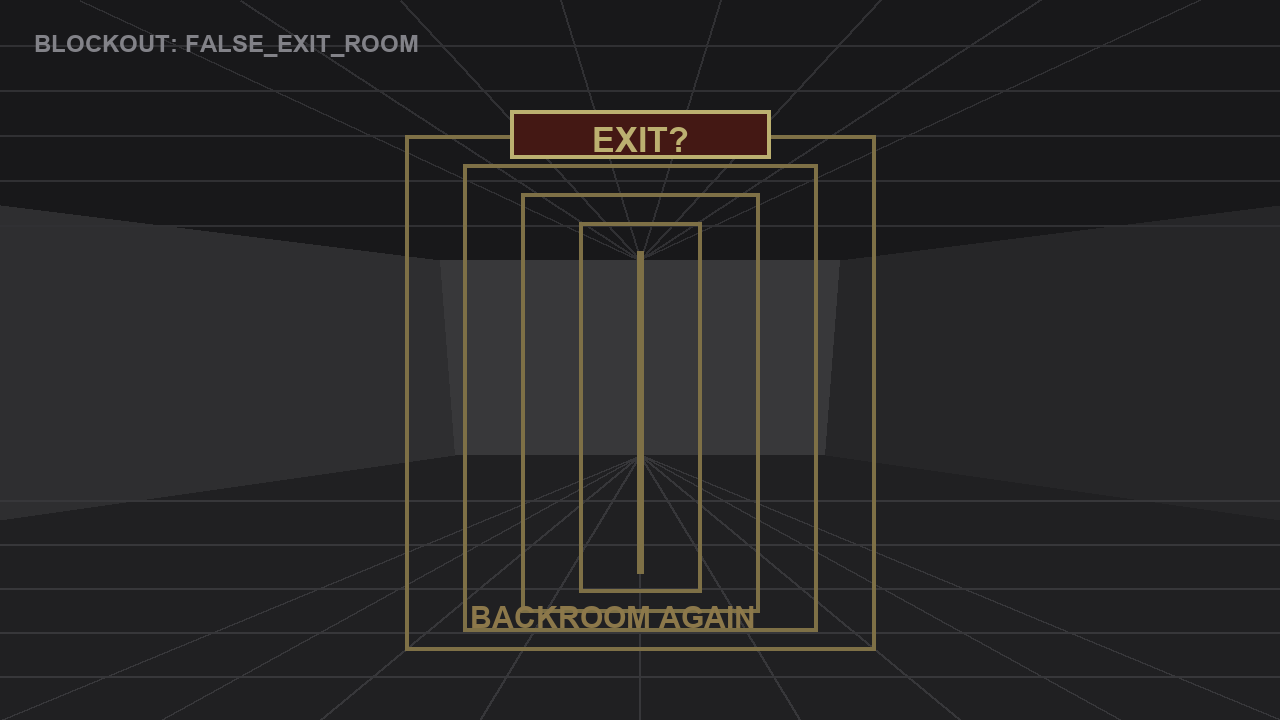
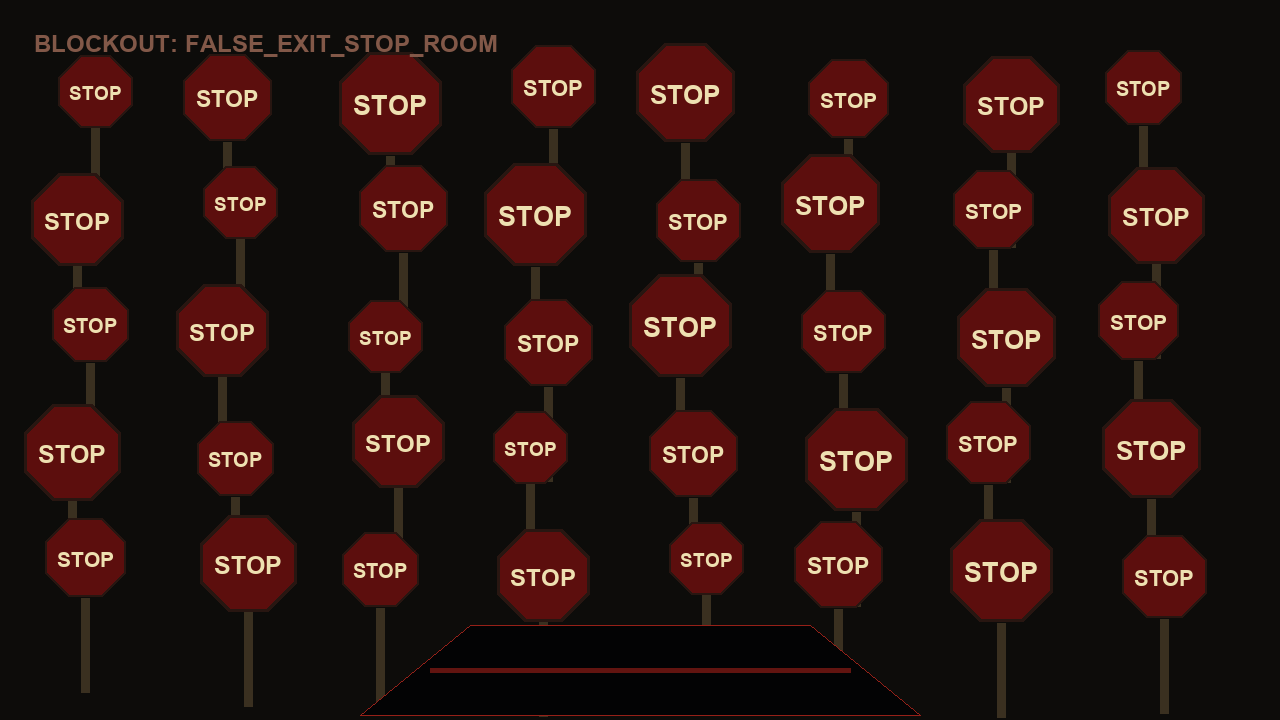
Implement v2.1 stop room flow

diff --git a/tools/generate_assets.py b/tools/generate_assets.py
@@ -89,9 +89,31 @@ def arrow_path(draw: ImageDraw.ImageDraw, side: str, label: str) -> None:
 
 
 def red_trace(draw: ImageDraw.ImageDraw) -> None:
-    trail = [(90, 662), (175, 640), (260, 646), (345, 618), (430, 624)]
-    draw.line(trail, fill=RED, width=9)
-    draw.line([(110, 690), (240, 676), (330, 684)], fill=RED, width=6)
+    trail = [(70, 668), (150, 640), (245, 648), (335, 612), (448, 622)]
+    draw.line(trail, fill=(62, 4, 4), width=28, joint="curve")
+    draw.line(trail, fill=(154, 18, 14), width=17, joint="curve")
+    draw.line([(92, 695), (210, 675), (320, 685), (405, 660)], fill=(126, 12, 10), width=11, joint="curve")
+    for x, y, rx, ry in [
+        (105, 650, 30, 12),
+        (188, 632, 22, 8),
+        (274, 648, 38, 13),
+        (366, 616, 28, 10),
+        (426, 634, 18, 7),
+        (238, 690, 20, 8),
+    ]:
+        draw.ellipse((x - rx, y - ry, x + rx, y + ry), fill=(112, 9, 8))
+
+
+def stop_sign_shape(draw: ImageDraw.ImageDraw, cx: int, cy: int, radius: int, alpha_fill: tuple[int, int, int] = (113, 19, 17)) -> None:
+    points = []
+    for i in range(8):
+        angle = math.pi / 8 + i * math.pi / 4
+        points.append((cx + int(math.cos(angle) * radius), cy + int(math.sin(angle) * radius)))
+    draw.polygon(points, fill=alpha_fill, outline=(214, 188, 120))
+    draw.line(points + [points[0]], fill=(40, 22, 17), width=max(2, radius // 16))
+    label_font = font(max(14, radius // 2))
+    bbox = draw.textbbox((0, 0), "STOP", font=label_font)
+    draw.text((cx - (bbox[2] - bbox[0]) / 2, cy - (bbox[3] - bbox[1]) / 2 - radius * 0.05), "STOP", fill=(238, 224, 177), font=label_font)
 
 
 def scene_fork_stop() -> Image.Image:
@@ -153,9 +175,28 @@ def scene_stop_back_red() -> Image.Image:
 def scene_left_blood_path() -> Image.Image:
     img, draw = blockout_room("BLOCKOUT: LEFT_BLOOD_PATH")
     doorway(draw, (710, 230, 1080, 615), "SWITCH")
-    draw.line([(430, 690), (500, 620), (575, 560), (650, 500), (705, 395)], fill=RED, width=13)
-    for x, y in [(470, 650), (535, 600), (610, 550), (690, 480), (720, 420)]:
-        draw.ellipse((x - 12, y - 7, x + 12, y + 7), fill=RED)
+    overlay = Image.new("RGBA", (W, H), (0, 0, 0, 0))
+    blood = ImageDraw.Draw(overlay)
+    main_trail = [(360, 700), (430, 650), (500, 602), (574, 548), (646, 490), (704, 390)]
+    blood.line(main_trail, fill=(64, 0, 0, 180), width=46, joint="curve")
+    blood.line(main_trail, fill=(152, 11, 8, 225), width=27, joint="curve")
+    blood.line([(400, 690), (455, 666), (505, 671), (572, 632)], fill=(182, 28, 20, 190), width=18, joint="curve")
+    blood.line([(548, 590), (616, 585), (690, 552), (754, 510)], fill=(118, 6, 6, 170), width=16, joint="curve")
+    for x, y, rx, ry, color in [
+        (405, 678, 52, 20, (86, 0, 0, 200)),
+        (492, 617, 42, 16, (136, 8, 7, 215)),
+        (578, 552, 48, 18, (166, 16, 10, 225)),
+        (654, 484, 36, 13, (112, 4, 4, 200)),
+        (712, 410, 26, 11, (158, 20, 14, 215)),
+        (475, 700, 20, 8, (198, 30, 20, 180)),
+        (602, 625, 18, 8, (120, 0, 0, 180)),
+        (748, 560, 15, 6, (150, 8, 8, 170)),
+    ]:
+        blood.ellipse((x - rx, y - ry, x + rx, y + ry), fill=color)
+    blood.polygon([(438, 650), (512, 622), (592, 638), (542, 676), (468, 688)], fill=(78, 0, 0, 145))
+    overlay = overlay.filter(ImageFilter.GaussianBlur(1.1))
+    img = Image.alpha_composite(img.convert("RGBA"), overlay).convert("RGB")
+    draw = ImageDraw.Draw(img)
     draw.text((330, 590), "DRAG TRACE", fill=(190, 70, 62), font=font(28))
     return img
 
@@ -203,13 +244,19 @@ def scene_true_exit_room() -> Image.Image:
 
 
 def scene_false_exit_room() -> Image.Image:
-    img, draw = blockout_room("BLOCKOUT: FALSE_EXIT_ROOM")
-    for i in range(5):
-        inset = i * 58
-        draw.rectangle((405 + inset, 135 + inset // 2, 875 - inset, 650 - inset // 3), outline=(126, 112, 70), width=4)
-    draw.rectangle((510, 110, 770, 158), fill=(68, 24, 20), outline=HOT, width=4)
-    text_center(draw, (510, 110, 770, 158), "EXIT?", 34)
-    draw.text((470, 600), "BACKROOM AGAIN", fill=(140, 120, 74), font=font(30))
+    img, draw = blockout_room("BLOCKOUT: FALSE_EXIT_STOP_ROOM")
+    draw.rectangle((0, 0, W, H), fill=(13, 12, 10))
+    for y in range(95, 620, 118):
+        for x in range(85, 1220, 152):
+            jitter_x = (x * 17 + y * 3) % 31 - 15
+            jitter_y = (x * 7 + y * 11) % 23 - 11
+            radius = 39 + ((x + y) % 18)
+            stop_sign_shape(draw, x + jitter_x, y + jitter_y, radius, (92, 14, 13))
+            draw.rectangle((x + jitter_x - 4, y + jitter_y + radius - 2, x + jitter_x + 4, y + jitter_y + radius + 92), fill=(58, 48, 32))
+    floor_hatch = [(470, 625), (810, 625), (920, 715), (360, 715)]
+    draw.polygon(floor_hatch, fill=(3, 3, 4), outline=(150, 32, 24))
+    draw.line((430, 670, 850, 670), fill=(98, 20, 16), width=5)
+    draw.text((34, 30), "BLOCKOUT: FALSE_EXIT_STOP_ROOM", fill=(130, 88, 72), font=font(24))
     return img
 
 

diff --git a/docs/DEV_REQUIREMENTS.md b/docs/DEV_REQUIREMENTS.md
@@ -1,6 +1,6 @@
-# Development Requirements: Backroom Level 0 v2
+# Development Requirements: Backroom Level 0 v2.1
 
-상태: GDD v2 승인 후 구현 기준, v2 블록아웃 반영 완료
+상태: GDD v2 승인 후 구현 기준, v2.1 결정 반영
 목적: 구현 전에 route graph, hotspot, state flag, event/ending 조건을 고정한다.
 
 ## 1. Scope
@@ -21,8 +21,7 @@
 
 - 최종 실사풍 배경 이미지.
 - 실시간 추적 AI.
-- 추가 크리처 등장 beat.
-- B 엔딩 추격 연출의 세부 연출 강화. 단, 구조는 이후 디벨롭 가능하게 둔다.
+- 최종 사진 기반 크리처 누끼 작업.
 
 ## 2. Room IDs
 
@@ -37,7 +36,7 @@
 | 5 | `right_panel_path` | 인간형 판넬 길 | `bg_right_panel_path.png` |
 | 6 | `right_dead_end` | 막다른 길 | `bg_right_dead_end.png` |
 | 7 | `true_exit_room` | A 엔딩 방 | `bg_true_exit_room.png` |
-| 8 | `false_exit_room` | B 엔딩 방 | `bg_false_exit_room.png` |
+| 8 | `false_exit_room` | B 엔딩 방: STOP 표지판만 가득한 시작점 변형 | `bg_false_exit_room.png` |
 
 엔딩 C는 별도 방이 아니라 즉시 결과 상태로 처리한다.
 
@@ -72,7 +71,7 @@ flowchart TD
 | `light_switch_pressed` | `false` | `left_switch_room` 버튼 클릭 | STOP 뒤 공간 붉은 상태 |
 | `stop_back_red_seen` | `false` | 버튼 작동 후 `stop_back_space` 진입 | A/B 출구 판정 |
 | `blood_trace_clicked` | `false` | `left_blood_path` 붉은 흔적 클릭 | A 엔딩 필수 단서 |
-| `panel_clue_clicked` | `false` | `right_panel_path` 인간형 판넬 클릭 | A 엔딩 필수 단서 |
+| `panel_clue_clicked` | `false` | `right_panel_path` 인간형 판넬 클릭 | 우측 루트 위화감/크리처 노출 단서. A 필수 조건에서는 제외. |
 | `right_dead_end_seen` | `false` | `right_dead_end` 진입 | 복귀 시 판넬 소리 조건 |
 | `panel_sound_played` | `false` | `right_dead_end -> right_panel_path` 복귀 후 1회 | 우측 루트 위화감 |
 | `creature_peek_seen` | `false` | 우측 루트 후 `fork_stop` 복귀 시 1회 | STOP 뒤 크리처 1초 등장 제한 |
@@ -161,7 +160,7 @@ flowchart TD
 | Enter `stop_back_space` | `stop_back_reentry_armed == true` | 즉시 C 엔딩. |
 | Enter `stop_back_space` | `light_switch_pressed == false` | 어두운 방 이미지/캡션. |
 | Enter `stop_back_space` | `light_switch_pressed == true` | 붉은 방 이미지/캡션, `stop_back_red_seen = true`. |
-| Leave `stop_back_space` to `fork_stop` | 항상 | `stop_back_reentry_armed = true`. |
+| Leave `stop_back_space` to `fork_stop` | 항상 | `stop_back_reentry_armed = true`, 경고음을 1회 재생. |
 | Leave `fork_stop` to left/right | 항상 | `stop_back_reentry_armed = false`. |
 | Enter `right_dead_end` | 항상 | `right_dead_end_seen = true`. |
 | Return `right_dead_end -> right_panel_path` | `panel_sound_played == false` | 판넬 소리, 캡션, `panel_sound_played = true`. |
@@ -171,14 +170,15 @@ flowchart TD
 
 | Ending | 조건 | 처리 |
 | --- | --- | --- |
-| A 진짜 출구 | `attempt_exit` 시 `light_switch_pressed && stop_back_red_seen && blood_trace_clicked && panel_clue_clicked` | `true_exit_room` 진입 후 A 엔딩 캡션. |
-| B 탈출 후 백룸 | `attempt_exit` 시 A 조건 중 하나라도 부족 | 짧은 추격 압박 캡션 후 `false_exit_room` 진입. |
+| A 진짜 출구 | `attempt_exit` 시 `light_switch_pressed && stop_back_red_seen && blood_trace_clicked` | `true_exit_room` 진입. 진짜 출구는 정면의 일반 문. |
+| B 탈출 후 백룸 | `attempt_exit` 시 A 조건 중 하나라도 부족 | 추격 beat 후 `false_exit_room` 진입. 방은 시작점처럼 보이지만 STOP 표지판만 가득하고 바닥 문이 있다. |
 | C 크리처에게 잡힘 | STOP 뒤 공간 연속 재진입 | 즉시 C 엔딩. |
 
-B 엔딩의 v2 연출은 최소 구현으로 둔다:
+B 엔딩의 v2.1 연출:
 
-- `false_exit_room` 진입 직전에 소리/흔들림/캡션으로 "쫓겨 들어갔다"는 감각을 준다.
-- 추후 승인 후 추격 컷, 빠른 클릭, 화면 흔들림 등을 beat로 확장한다.
+- `false_exit_room` 진입 직전에 소리/흔들림/크리처 실루엣으로 "쫓겨 들어갔다"는 감각을 준다.
+- 엔딩 방에서 설명 캡션은 쓰지 않는다.
+- 추후 승인 후 바닥 문 연출과 추격 컷을 강화한다.
 
 ## 9. Caption Draft
 
@@ -194,7 +194,6 @@ B 엔딩의 v2 연출은 최소 구현으로 둔다:
 | 막다른 길 | `여긴 막혀 있다.` |
 | 판넬 복귀 소리 | `판넬 뒤에서 소리가 났다.` |
 | 크리처 1초 등장 | `방금 표지판 뒤에 무언가 있었다.` |
-| B 진입 직전 | `뒤에서 뛰는 소리가 가까워진다.` |
 | C | `돌아보면 안 됐다.` |
 
 ## 10. Implementation Order
@@ -223,6 +222,8 @@ B 엔딩의 v2 연출은 최소 구현으로 둔다:
 - `blood_trace`, `human_panel`, `light_switch`가 클릭 가능한 단서/트리거로 작동한다.
 - 필요한 단서를 모두 얻은 뒤 붉은 STOP 뒤 공간에서 출구를 누르면 A 엔딩이다.
 - 단서가 부족한 상태에서 같은 출구를 누르면 B 엔딩이다.
+- A 엔딩은 판넬 클릭 없이도 가능해야 한다.
+- B 엔딩 방은 상호작용 없는 STOP 표지판 방이어야 한다.
 - debug overlay로 각 hotspot을 화면에서 확인할 수 있다.
 - route validation에서 누락 target/image와 도달 불가능 방이 없어야 한다.
 - Godot headless QA에서 A/B/C 루트가 모두 통과해야 한다.

diff --git a/docs/GDD.md b/docs/GDD.md
@@ -59,7 +59,7 @@
 | ID | 엔딩 | 조건 방향 |
 | --- | --- | --- |
 | A | 진짜 출구 탈출 | 위험한 단서를 제대로 해석하고 올바른 출구 루트 선택. |
-| B | 탈출 후 다시 백룸 | 필요한 단서를 다 얻지 못한 상태에서 가짜 출구 방으로 몰려 들어감. |
+| B | 탈출 후 다시 백룸 | 필요한 단서를 다 얻지 못한 상태에서 가짜 출구로 몰려 들어간 뒤, STOP 표지판만 가득한 시작점 변형 방으로 돌아옴. |
 | C | 크리처에게 잡힘 | STOP 뒤 공간을 연속으로 건드리는 등 사망 트리거 작동. |
 
 ## 7. Core Loop
@@ -95,7 +95,7 @@ flowchart LR
 | 5 | `right_panel_path` | 평범해 보이는 길 | 인간 모양 판넬, 클릭 가능한 단서 |
 | 6 | `right_dead_end` | 막다른 길 | 진행 불가, 돌아가야 함 |
 | 7 | `true_exit_room` | A 엔딩 후보 | 필요한 단서가 있을 때 진짜 탈출 |
-| 8 | `false_exit_room` | B 엔딩 후보 | 단서 부족 시 크리처에게 쫓기며 들어가는 가짜 출구 |
+| 8 | `false_exit_room` | B 엔딩 후보 | 시작점처럼 보이지만 STOP 표지판만 가득한 방. 바닥 문으로 가짜 출구를 암시 |
 
 ## 10. First Fork Design
 
@@ -163,7 +163,7 @@ STOP 뒤 공간 상태:
 4. 이 등장은 1초간만 보이고 사라진다.
 5. STOP 뒤 공간은 첫 진입만 안전하다.
 6. `갈림길 -> STOP 뒤 공간 -> 갈림길 -> STOP 뒤 공간` 연속 이동은 즉시 C 엔딩이다.
-7. B 가짜 출구는 단서 부족 상태에서 크리처에게 쫓기며 이판사판으로 들어가는 플레이 경험으로 디벨롭한다.
+7. B 가짜 출구는 단서 부족 상태에서 크리처에게 쫓기며 이판사판으로 들어간 뒤, STOP 표지판만 가득한 시작점 변형으로 돌아오는 경험으로 디벨롭한다.
 
 미확정:
 
@@ -226,26 +226,27 @@ STOP 뒤 공간 상태:
 
 승인 후 다음 단계:
 
-- 실제 route graph 확정.
-- 개발 요구사항 문서 작성.
-- `data/rooms.json` 수정 계획 작성.
-- hotspot debug overlay/route validation부터 구현.
+- 블록아웃 플레이 후 route graph와 hotspot 피드백을 반영.
+- 최종 이미지 일괄 교체 전 shot list 작성.
+- `data/rooms.json` 기준으로 크리처 beat와 엔딩 조건 조정.
+- route validation과 Godot headless QA를 유지.
 
 ## 18. Development Notes To Preserve
 
-- B 가짜 출구는 "단서를 충분히 얻지 못해서 크리처에게 쫓기며 급하게 들어가는 방"으로 디벨롭한다.
+- B 가짜 출구는 "단서를 충분히 얻지 못해서 크리처에게 쫓기며 급하게 들어가고, STOP 표지판만 가득한 시작점 변형으로 돌아오는 방"으로 디벨롭한다.
 - 우측 인간 모양 판넬은 클릭 가능한 단서다.
+- 우측 인간 모양 판넬은 A 필수 조건에서 제외하고, 우측 루트의 위화감/크리처 노출용 단서로 둔다.
 - 좌측 전등 버튼은 `stop_back_space`의 붉은 빛 상태를 여는 트리거다.
 - STOP 뒤 공간의 C 엔딩 조건은 단순 클릭 1회가 아니라 연속 이동 패턴으로 판정한다.
 
 ## 19. Approval Check
 
-GDD v2는 승인되었다. 다음 단계는 개발 요구사항 문서화다.
+GDD v2는 승인되었고 v2.1 블록아웃 구현 기준까지 반영되었다. 다음 단계는 플레이 리뷰 기반 조정과 최종 이미지 shot list 작성이다.
 
-개발 요구사항 단계에서 확정할 항목:
+다음 리뷰에서 확정할 항목:
 
-1. 8개 방의 정확한 route graph.
+1. 8개 방의 현재 route graph 유지 여부.
 2. 각 방의 hotspot 목록과 판정 크기.
-3. 좌측 전등 버튼 작동 후 열리는 정보/이동 변화.
-4. A 진짜 출구 진입 조건.
-5. B 가짜 출구 진입 조건과 추격감 연출 범위.
+3. 좌측 전등 버튼 작동 후 STOP 뒤 공간 연출 강도.
+4. A 진짜 출구 조건이 너무 쉬운지 여부.
+5. B 가짜 출구 추격감과 STOP 표지판 방 연출 범위.

diff --git a/docs/PLAY_EXPERIENCE_PROPOSAL.md b/docs/PLAY_EXPERIENCE_PROPOSAL.md
@@ -1,6 +1,6 @@
 # Play Experience Proposal: v3 Direction
 
-상태: v2 블록아웃 이후 제안
+상태: v2.1 결정 반영
 
 ## 목표
 
@@ -11,11 +11,11 @@
 | Beat | 플레이어 행동 | 감정 목표 | 구현 방향 |
 | --- | --- | --- | --- |
 | 1. 첫 갈림길 | STOP, 왼쪽 핏자국, 오른쪽 깨끗한 길 확인 | 어디가 더 위험한지 판단하게 함 | STOP 뒤 공간은 클릭 가능하지만 첫 진입은 아무것도 없는 어두운 방 |
-| 2. 안전해 보이는 오른쪽 | 판넬을 지나 막다른 길 확인 | 안전한 선택이 헛수고였다는 위화감 | 판넬 클릭 단서, 복귀 시 판넬 소리 |
+| 2. 안전해 보이는 오른쪽 | 판넬을 지나 막다른 길 확인 | 안전한 선택이 헛수고였다는 위화감 | 판넬 클릭 단서, 복귀 시 판넬 소리. A 필수 조건에서는 제외 |
 | 3. 첫 크리처 인지 | 갈림길 복귀 | 짧게 봤지만 확신 못 하는 불안 | STOP 뒤 1초 등장. 현재 `data/rooms.json`의 `right_return_peek`로 조절 |
 | 4. 위험해 보이는 왼쪽 | 핏자국과 버튼 확인 | 위험한 길에 정답 단서가 있다는 학습 | 흔적 단서 + 전등 버튼 |
 | 5. 붉어진 STOP 뒤 | 버튼 이후 STOP 뒤 공간 재방문 | 초반에 봤던 공간이 바뀐 것을 확인 | 어두운 방에서 붉은 방으로 전환 |
-| 6. 출구 판정 | 붉은 방의 빛 클릭 | 단서 수집 여부가 엔딩을 가름 | 단서 충분하면 A, 부족하면 B |
+| 6. 출구 판정 | 붉은 방의 빛 클릭 | 단서 수집 여부가 엔딩을 가름 | 핏자국+버튼+붉은 방 확인이면 A, 부족하면 B |
 
 ## B 엔딩 고도화 제안
 
@@ -26,23 +26,24 @@ B는 단순 실패보다 "탈출인 줄 알고 뛰어들었는데 다시 백룸"
 1. 붉은 방에서 빛을 누름.
 2. 단서가 부족하면 즉시 문이 열리는 대신 뒤에서 발소리/흔들림.
 3. 플레이어가 선택한 게 아니라 몰려 들어간 느낌으로 `false_exit_room` 전환.
-4. 캡션은 설명보다 짧게: `나간 줄 알았다.`
+4. 캡션 대신 시작점처럼 보이는 방으로 돌아온다.
+5. 그 방에는 길이 없고 STOP 표지판만 가득하며, 바닥 문으로 가짜 출구를 암시한다.
 
 이 구조면 나중에 B 전용 추격 컷을 추가해도 현재 route를 갈아엎지 않아도 된다.
 
 ## 단서 설계 조정안
 
-현재 A 조건은 `전등 버튼 + 붉은 STOP 뒤 확인 + 붉은 흔적 + 인간형 판넬`이다.
+현재 A 조건은 `전등 버튼 + 붉은 STOP 뒤 확인 + 붉은 흔적`이다.
 
 다음 리뷰에서 볼 점:
 
-- 조건이 너무 빡빡하면 `인간형 판넬`은 B 회피 단서가 아니라 추가 해석 단서로 낮춘다.
+- `인간형 판넬`은 B 회피 필수 단서가 아니라 우측 루트의 이상 현상/크리처 노출 단서로 둔다.
 - 조건이 너무 쉽다면 `붉은 흔적` 클릭 후 버튼 문구를 조금 더 애매하게 만든다.
 - 전등 버튼은 반드시 시각 변화로 보상한다. 텍스트만으로 끝내면 조작감이 약하다.
 
 ## 다음 구현 후보
 
-1. B 엔딩 진입 직전 2-3초 추격 beat 추가.
-2. `creature_beats`를 여러 개로 확장해서 위치/지속시간/사운드를 JSON에서 조절.
+1. 바닥 문과 일반 문을 더 명확하게 구분하는 최종 이미지 shot list 작성.
+2. 사진 기반 크리처 이미지를 받으면 누끼 처리 후 `assets/images/creature.png` 교체.
 3. 단서 클릭 후 작은 상태 변화 추가. 예: 판넬 조사 후 복귀 소리 타이밍 변화.
-4. 최종 이미지 전 shot list 작성: 각 방의 카메라 방향, 주요 오브젝트, 클릭 영역 기준.
+4. 최종 이미지 전 shot list 작성: 모든 방은 항상 정면 방향 기준으로 둔다.

diff --git a/docs/PROGRESS.md b/docs/PROGRESS.md
@@ -8,7 +8,7 @@
 
 현재 시각 단계: 블록아웃 placeholder.
 
-현재 기획 단계: GDD v2 승인 완료, v2 블록아웃 구현/검증 단계.
+현재 기획 단계: GDD v2 승인 완료, v2.1 블록아웃 구현/검증 단계.
 
 검토 대상:
 
@@ -28,8 +28,8 @@
 - 배포 URL: `https://ljhljh0703-cmd.github.io/backroom-level-0-godot/?v=66a9f3a`
 - Godot: `4.6`
 - 배포 형식: GitHub Pages Web export
-- 현재 단계: v2 blockout implementation
-- 최신 문서 단계: GDD v2 승인, `DEV_REQUIREMENTS.md` 구현 기준 반영
+- 현재 단계: v2.1 blockout implementation
+- 최신 문서 단계: GDD v2 승인, `DEV_REQUIREMENTS.md` v2.1 결정 반영
 
 ## 결정 기록
 
@@ -54,6 +54,9 @@
 | 2026-06-01 | GDD v2를 승인했다. | 개발 요구사항 문서화와 구현 준비 단계로 넘어가기 위해. |
 | 2026-06-01 | 방 그래프를 `data/rooms.json`으로 분리했다. | 방/핫스팟/캡션/크리처 beat를 코드 수정 없이 조절하기 위해. |
 | 2026-06-01 | `validate_routes.py`와 `qa_game_flow.gd`를 추가했다. | 수정 후 route 오류와 A/B/C 루트 회귀를 빠르게 잡기 위해. |
+| 2026-06-01 | A 조건에서 판넬 단서를 제외했다. | 우측 판넬은 정답 필수보다 위화감/크리처 노출 단서에 더 적합함. |
+| 2026-06-01 | B 엔딩 방을 STOP 표지판만 가득한 시작점 변형으로 바꿨다. | 가짜 탈출 후 다시 백룸에 돌아온 감각을 시각적으로 주기 위해. |
+| 2026-06-01 | 모든 방의 방향은 정면 기준으로 유지한다. | 최종 이미지 shot list와 hotspot 검토를 단순화하기 위해. |
 
 ## 고도화 방향
 
@@ -143,7 +146,7 @@
 - `data/rooms.json`이 현재 방 그래프와 hotspot의 중심이다.
 - 이미지는 `tools/generate_assets.py`로 생성한다.
 - 현재 배경은 개발용 블록아웃 label을 좌상단에 포함한다.
-- 현재 배포 빌드는 GDD v2의 신규 8방 구조가 아직 구현되지 않은 상태다.
+- 현재 배포 빌드는 GDD v2의 8방 구조를 포함한다. v2.1 변경사항은 재배포 후 현재 빌드 섹션에 기록한다.
 - 기존 `hallway`, `junction`, `sign`, `door`, `other` 자산은 남아 있지만 v2 route에서는 사용하지 않는다.
 - `docs/DEV_REQUIREMENTS.md`는 GDD v2를 실제 구현 단위로 바꾼 기준 문서다.
 - `data/rooms.json`이 현재 v2 방 그래프와 hotspot의 기준이다.
@@ -153,16 +156,17 @@
 
 v2 블록아웃 리뷰 질문:
 
-1. A 엔딩 필수 단서 조건이 너무 많거나 적지 않은지.
+1. A 엔딩 필수 단서 조건이 너무 쉬워졌는지.
 2. B 엔딩의 "단서 부족 상태에서 쫓겨 들어감"이 플레이로 납득되는지.
 3. STOP 뒤 공간의 첫 진입 안전/연속 재진입 사망이 의도대로 읽히는지.
 4. hotspot overlay 기준으로 클릭 판정이 넉넉한지.
+5. 강화된 핏자국이 최종 이미지 전 블록아웃으로 충분한지.
 
 ## 다음 추천 작업 패킷
 
 가장 작은 유효 작업 단위:
 
-1. v2 blockout build 재배포.
+1. v2.1 blockout build 재배포.
 2. 사용자가 링크에서 A/B/C 흐름과 클릭 판정 리뷰.
 3. `data/rooms.json`에서 hotspot/문구/크리처 beat 조정.
 4. B 엔딩 추격감 beat 확장 여부 결정.

diff --git a/docs/CODEGRAPH.md b/docs/CODEGRAPH.md
@@ -64,8 +64,8 @@ flowchart TD
 | 방 캡션 변경 | `data/rooms.json`의 `caption`/`red_caption` | 동적 캡션은 `_room_caption()` |
 | 조사 문구 변경 | `_handle_event()`, `_repeat_event_line()` | `data/rooms.json`의 `event` id |
 | 방 이동 조건 변경 | `_go_to_room()` | `data/rooms.json`의 hotspot target |
-| 첫 크리처 등장 타이밍 변경 | `data/rooms.json`의 `creature_beats.right_return_peek` | `_show_stop_sign_creature_peek()` |
-| 이후 크리처 접근감 변경 | `data/rooms.json`의 `creature_beats`, `_update_creature()` | `_show_stop_sign_creature_peek()`와 엔딩 연출 |
+| 우측 복귀 크리처 등장 타이밍 변경 | `data/rooms.json`의 `creature_beats.right_return_peek` | `_show_stop_sign_creature_peek()` |
+| 이후 크리처 접근감 변경 | `data/rooms.json`의 `creature_beats` | `_show_creature_beat()`와 엔딩 연출 |
 | 엔딩 분기 변경 | `_attempt_exit()`, `_show_ending()` | `data/rooms.json`의 `event_targets.attempt_exit` |
 | 전체 시각 스타일 변경 | `tools/generate_assets.py`의 상수/그리기 함수 | `assets/images/*.png` 재생성 |
 | 최종 이미지 교체 | `assets/images/*.png` 파일 교체 | 파일명을 유지하면 `data/rooms.json` 수정 불필요 |
@@ -137,7 +137,7 @@ v2 상태:
 | 좌측 버튼 | `light_switch_pressed` | STOP 뒤 공간을 붉은 상태로 바꿈. |
 | 붉은 STOP 뒤 확인 | `stop_back_red_seen` | A/B 출구 판정에 사용. |
 | 붉은 흔적 단서 | `blood_trace_clicked` | A 엔딩 필수 단서. |
-| 인간형 판넬 단서 | `panel_clue_clicked` | A 엔딩 필수 단서. |
+| 인간형 판넬 단서 | `panel_clue_clicked` | 우측 루트 위화감/크리처 노출 단서. A 엔딩 필수 조건에서는 제외. |
 | 우측 막다른 길 방문 | `right_dead_end_seen` | 복귀 판넬 소리와 크리처 1초 등장 조건. |
 | 판넬 소리 1회 제한 | `panel_sound_played` | 우측 복귀 사운드 중복 방지. |
 | 엔딩 분기 | `ending_id` | A/B/C 결과 표시. |
